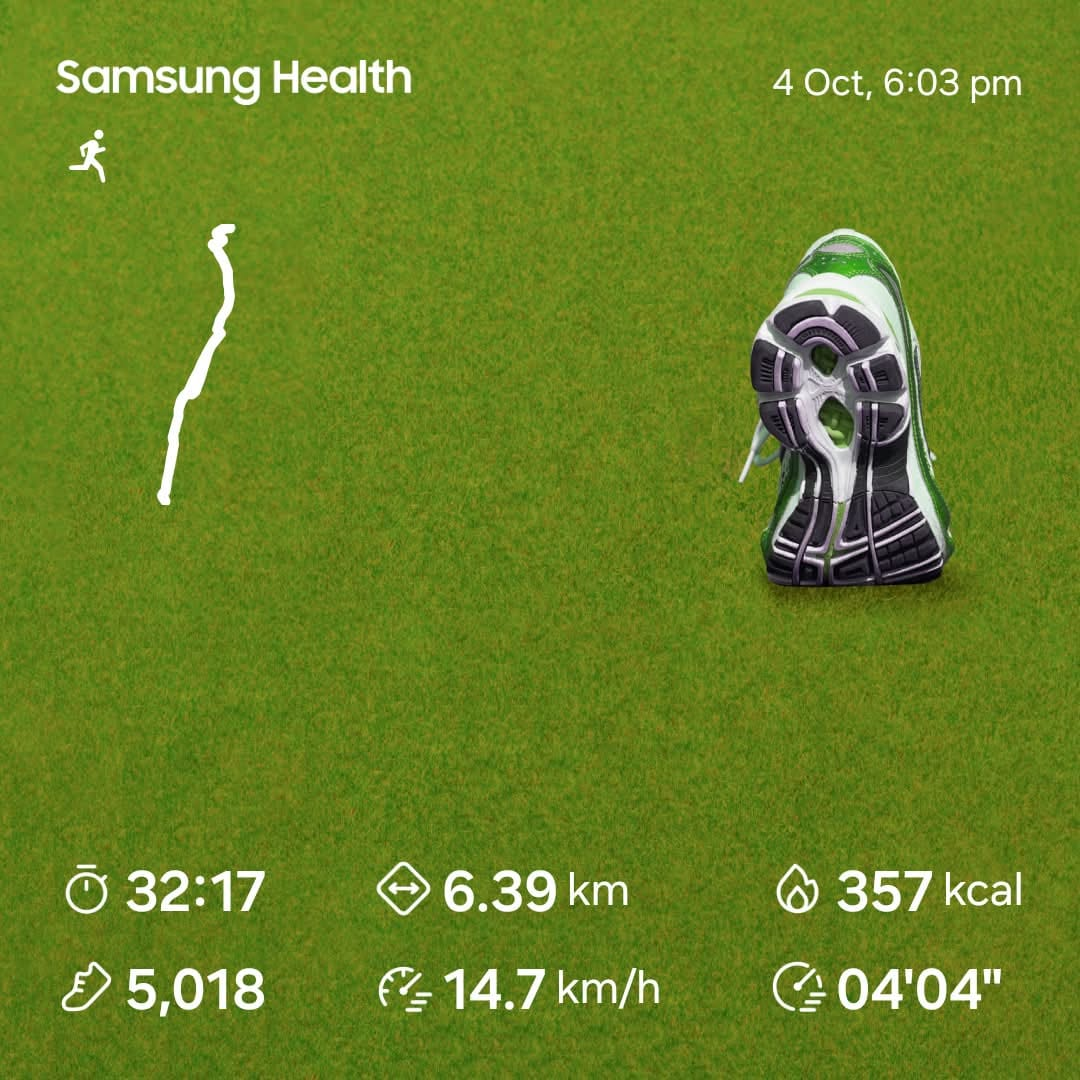
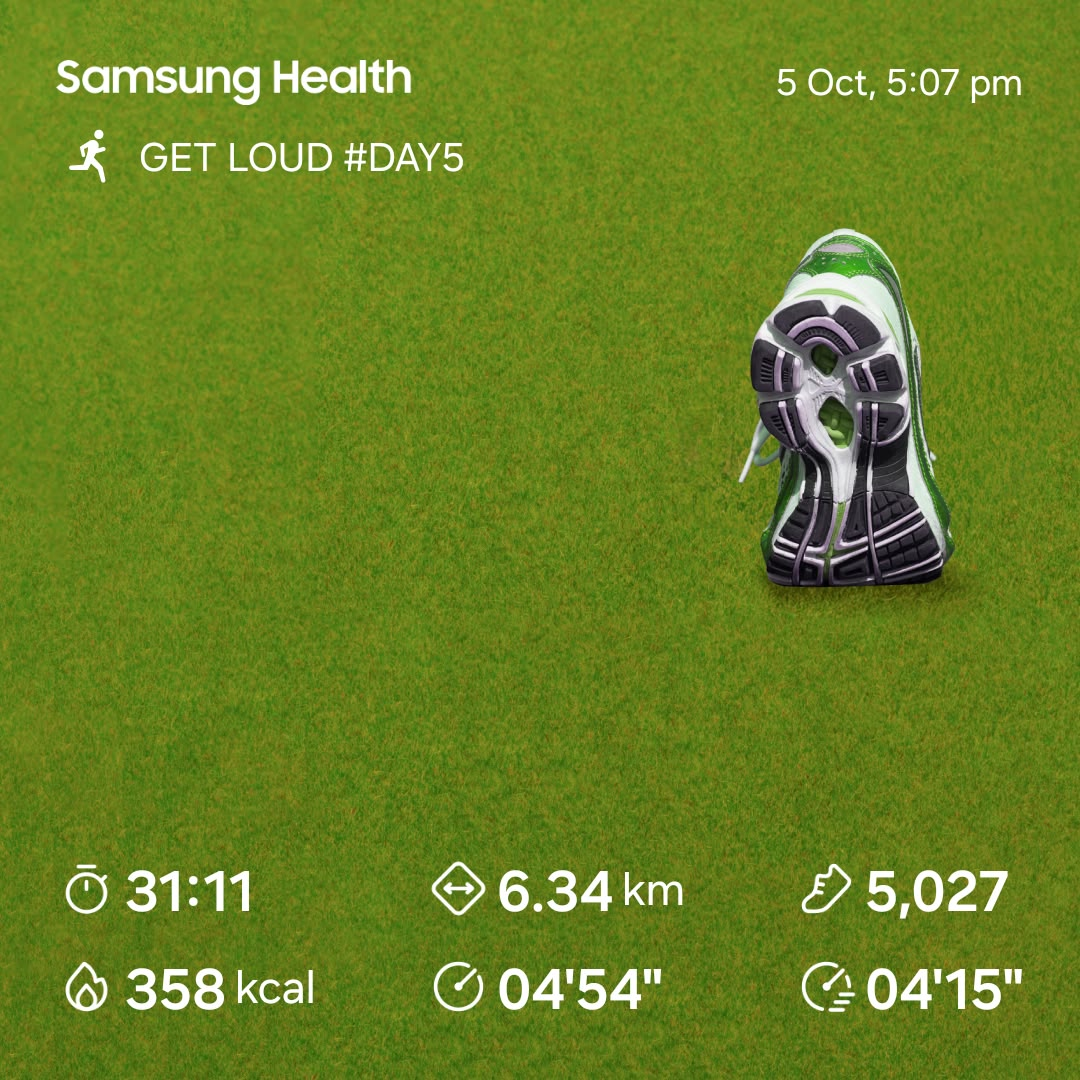
-fixed bugs in add_run_day.js script -added day5

diff --git a/scripts/add_run_day.js b/scripts/add_run_day.js
@@ -5,18 +5,18 @@
  * Usage:
  *   node scripts/add_run_day.js <path-to-day.jpeg> [options]
  *
- * Required / Recommended flags (all values come from you):
- *   --date          YYYY-MM-DD          e.g. 2026-10-04
- *   --date-label    "D Mon"             e.g. "4 Oct"
+ * Required / Recommended flags:
+ *   --date          YYYY-MM-DD          e.g. 2026-10-05
+ *   --date-label    "D Mon"             e.g. "5 Oct"
  *   --full-date     "DayName, D Mon YYYY"
- *   --time          "H:MM am/pm"        e.g. "6:03 pm"
- *   --duration      "MM:SS"             e.g. "32:17"
- *   --distance      6.39                (km, number)
- *   --calories      357                 (integer)
- *   --pace          "MM'SS\""           e.g. "04'04\""
- *   --fastest-pace  "MM'SS\""           (optional, defaults to same as pace)
- *   --steps         5018                (integer, no commas)
- *   --avg-speed     14.7                (optional – calculated if omitted)
+ *   --time          "H:MM am/pm"        e.g. "5:07 pm"
+ *   --duration      "MM:SS"             e.g. "31:11"
+ *   --distance      6.34                (km, number)
+ *   --calories      358                 (integer)
+ *   --pace          "MM'SS\""           e.g. "04'54\""
+ *   --fastest-pace  "MM'SS\""           (optional)
+ *   --steps         5027                (integer, no commas)
+ *   --avg-speed     12.2                (optional – calculated if omitted)
  *
  * Optional:
  *   --route-type    "Evening Loop"      (default: "Evening Loop")
@@ -25,13 +25,10 @@
  *   --dry-run                           (preview only)
  *
  * Examples:
- *   node scripts/add_run_day.js ~/Downloads/day4.jpeg \
- *     --date 2026-10-04 --date-label "4 Oct" --full-date "Sunday, 4 Oct 2026" \
- *     --time "6:03 pm" --duration "32:17" --distance 6.39 --calories 357 \
- *     --pace "04'04\"" --steps 5018 --avg-speed 14.7
- *
- *   node scripts/add_run_day.js ~/Downloads/day4.jpeg --dry-run
- *   (will prompt you for any missing values)
+ *   node scripts/add_run_day.js ~/Downloads/day5.jpg \
+ *     --date 2026-10-05 --date-label "5 Oct" --full-date "Monday, 5 Oct 2026" \
+ *     --time "5:07 pm" --duration "31:11" --distance 6.34 --calories 358 \
+ *     --pace "04'54\"" --fastest-pace "04'15\"" --steps 5027 --avg-speed 12.2
  */
 
 import fs from 'fs';
@@ -106,16 +103,16 @@ async function collectRunData() {
 
   console.log('\n📋 Collecting run data (press Enter to keep default / skip if already provided via flag)\n');
 
-  if (!data.date) data.date = await ask('Date (YYYY-MM-DD)', '2026-10-04');
-  if (!data.dateLabel) data.dateLabel = await ask('Date label (e.g. "4 Oct")', '4 Oct');
-  if (!data.fullDate) data.fullDate = await ask('Full date (e.g. "Sunday, 4 Oct 2026")', 'Sunday, 4 Oct 2026');
-  if (!data.time) data.time = await ask('Time (e.g. "6:03 pm")', '6:03 pm');
-  if (!data.duration) data.duration = await ask('Duration (MM:SS)', '32:17');
-  if (data.distanceKm === null) data.distanceKm = parseFloat(await ask('Distance (km)', '6.39'));
-  if (data.calories === null) data.calories = parseInt(await ask('Calories (kcal)', '357'), 10);
-  if (!data.pace) data.pace = await ask('Average pace (e.g. 04\'04")', "04'04\"");
+  if (!data.date) data.date = await ask('Date (YYYY-MM-DD)', '2026-10-05');
+  if (!data.dateLabel) data.dateLabel = await ask('Date label (e.g. "5 Oct")', '5 Oct');
+  if (!data.fullDate) data.fullDate = await ask('Full date (e.g. "Monday, 5 Oct 2026")', 'Monday, 5 Oct 2026');
+  if (!data.time) data.time = await ask('Time (e.g. "5:07 pm")', '5:07 pm');
+  if (!data.duration) data.duration = await ask('Duration (MM:SS)', '31:11');
+  if (data.distanceKm === null) data.distanceKm = parseFloat(await ask('Distance (km)', '6.34'));
+  if (data.calories === null) data.calories = parseInt(await ask('Calories (kcal)', '358'), 10);
+  if (!data.pace) data.pace = await ask('Average pace (e.g. 04\'54")', "04'54\"");
   if (!data.fastestPace) data.fastestPace = await ask('Fastest pace (leave blank = same as avg)', data.pace);
-  if (data.steps === null) data.steps = parseInt((await ask('Steps', '5018')).replace(/,/g, ''), 10);
+  if (data.steps === null) data.steps = parseInt((await ask('Steps', '5027')).replace(/,/g, ''), 10);
 
   // Average speed – calculate if not given
   if (data.avgSpeedKmh === null) {
@@ -149,6 +146,7 @@ function computeAvgSpeed(distanceKm, duration) {
 }
 
 function paceToSeconds(pace) {
+  // Handles both "04'54\"" and "04'54"
   const m = pace?.match(/(\d+)'(\d+)/);
   if (!m) return null;
   return parseInt(m[1], 10) * 60 + parseInt(m[2], 10);
@@ -208,6 +206,12 @@ function computeGains(data, prev) {
   };
 }
 
+// ─── Safe string helper (the key fix) ─────────────────────────────────────────
+// Always produces a correctly quoted & escaped JS string literal
+function jsString(value) {
+  return JSON.stringify(String(value ?? ''));
+}
+
 // ─── Build the JS entry ───────────────────────────────────────────────────────
 
 function buildLogEntry(dayNum, data, gains, routeType, location, quote, varName) {
@@ -218,37 +222,37 @@ function buildLogEntry(dayNum, data, gains, routeType, location, quote, varName)
   const gainsBlock = gains
     ? `
     gains: {
-      distanceDelta: '${gains.distanceDelta}',
-      paceDelta: '${gains.paceDelta}',
-      speedDelta: '${gains.speedDelta}',
-      stepsDelta: '${gains.stepsDelta}',
+      distanceDelta: ${jsString(gains.distanceDelta)},
+      paceDelta: ${jsString(gains.paceDelta)},
+      speedDelta: ${jsString(gains.speedDelta)},
+      stepsDelta: ${jsString(gains.stepsDelta)},
     },`
     : '';
 
   return `  {
     day: ${dayNum},
-    date: '${data.date}',
-    dateLabel: '${data.dateLabel}',
-    fullDate: '${data.fullDate}',
-    time: '${data.time}',
+    date: ${jsString(data.date)},
+    dateLabel: ${jsString(data.dateLabel)},
+    fullDate: ${jsString(data.fullDate)},
+    time: ${jsString(data.time)},
     distanceKm: ${data.distanceKm},
-    duration: '${data.duration}',
-    pace: "${data.pace}",
+    duration: ${jsString(data.duration)},
+    pace: ${jsString(data.pace)},
     avgSpeedKmh: ${data.avgSpeedKmh},
-    fastestPace: "${data.fastestPace}",
+    fastestPace: ${jsString(data.fastestPace)},
     steps: ${data.steps},
     cadenceSpm: null,
     avgStrideM: null,
     calories: ${data.calories},
     elevationM: null,
-    routeType: '${routeType}',
-    routeLocation: '${location}',
-    routeDescription: "${autoRouteDescription}",
+    routeType: ${jsString(routeType)},
+    routeLocation: ${jsString(location)},
+    routeDescription: ${jsString(autoRouteDescription)},
     image: ${varName},
     mapCard: null,
     mapCrop: null,
     routeSvg: null,
-    quote: "${autoQuote}",
+    quote: ${jsString(autoQuote)},
     source: 'Samsung Health',
     verified: true,${gainsBlock}
   },`;

diff --git a/src/data/runningLogs.js b/src/data/runningLogs.js
@@ -9,6 +9,7 @@ import day1RouteSvg from '../assets/day1_route.svg';
 import day2RouteSvg from '../assets/day2_route.svg';
 import day4Image from '../assets/day4.jpeg';
 import day5Image from '../assets/day5.jpeg';
+import day5Image from '../assets/day5.jpeg';
 
 /** Official Samsung Health run logs extracted from Karshang Ghising's verified runs */
 export const runningLogs = [
@@ -139,6 +140,39 @@ export const runningLogs = [
     },
   },
 
+  {
+    day: 5,
+    date: '2026-10-05',
+    dateLabel: '5 Oct',
+    fullDate: 'Monday, 5 Oct 2026',
+    time: '5:07 pm',
+    distanceKm: 6.34,
+    duration: '31:11',
+    pace: "04'54\"",
+    avgSpeedKmh: 12.2,
+    fastestPace: "04'15\"",
+    steps: 5027,
+    cadenceSpm: null,
+    avgStrideM: null,
+    calories: 358,
+    elevationM: null,
+    routeType: 'Evening Loop',
+    routeLocation: 'Perth, WA',
+    routeDescription: "Day 5 evening run. 6.34 km covered in 31:11 at an average pace of 04'54\"/km.",
+    image: day5Image,
+    mapCard: null,
+    mapCrop: null,
+    routeSvg: null,
+    quote: "Day 5 done. 6.34 km at 04'54\" — keeping the grind alive.",
+    source: 'Samsung Health',
+    verified: true,
+    gains: {
+      distanceDelta: '-0.05 km',
+      paceDelta: '+50s/km slower',
+      speedDelta: '-2.5 km/h',
+      stepsDelta: '+9 steps',
+    },
+  },
 ];
 
 export const GOAL_DISTANCE_KM = 500;
